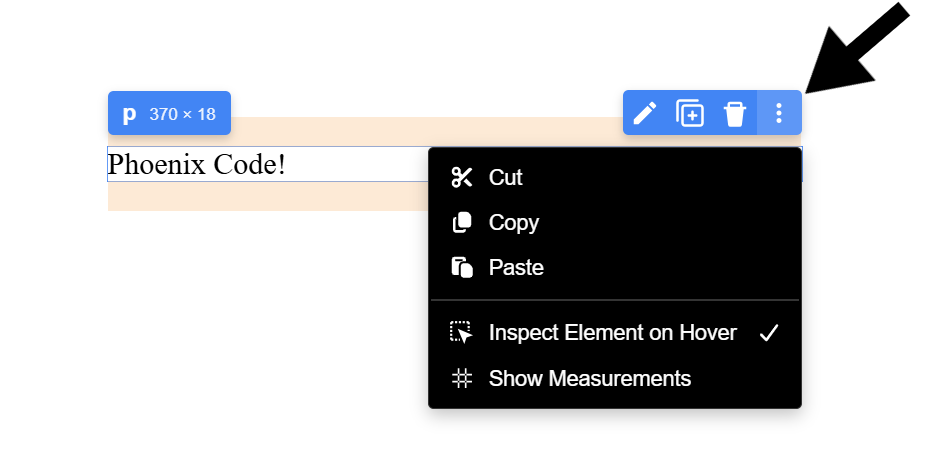
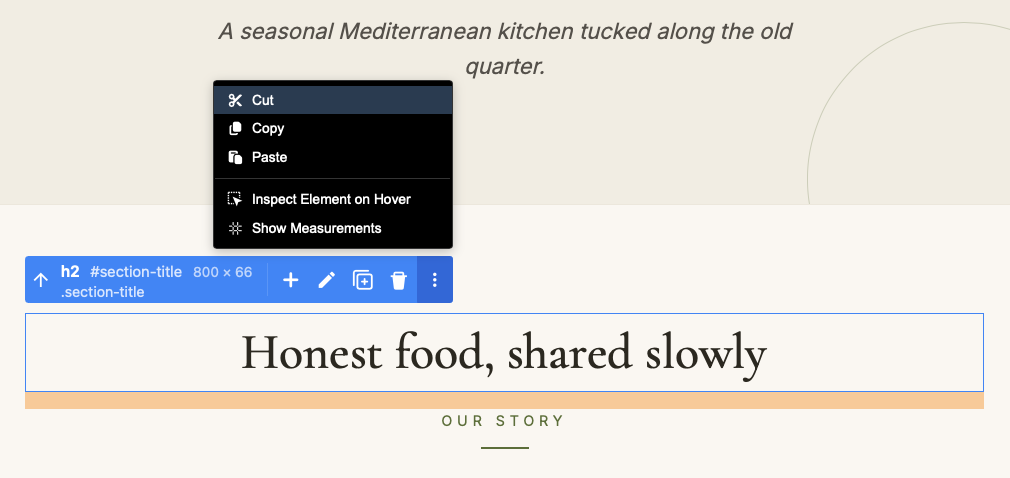
feat: add videos for live preview edit mode docs

diff --git a/docs/07-Pro Features/02-edit-mode-live-preview.md b/docs/07-Pro Features/02-edit-mode-live-preview.md
@@ -160,6 +160,10 @@ To start editing, **double-click** an element in the Live Preview or click the *
 Edit the text as needed, then press `Enter` to save or `Esc` to cancel.  
 To insert a line break, press `Shift + Enter`.
 
+<VideoPlayer
+  src="https://docs-images.phcode.dev/videos/live-preview-edit/inline-text-editing.mp4"
+/>
+
 > Text editing is available only for elements that can contain text. It is not supported for elements such as `<img>`, `<video>`, `<br>`, and similar non-text elements.
 
 ### Formatting Toolbar
@@ -185,15 +189,15 @@ Click the **More** button *(three-dots icon)* on the right side of the toolbar t
 
 ![More formatting options](./images/formatting-more.png "More formatting options")
 
-<VideoPlayer
-  src="https://docs-images.phcode.dev/videos/live-preview-edit/inline-text-editing.mp4"
-/>
-
 ## Drag and Drop
 
 The **Drag and Drop** feature lets you reposition elements in the Live Preview by dragging them to a new location. The source code is automatically updated with the new structure when you drop the element.
 
 To drag an element: click and hold the element, then move your mouse to the desired location. The element becomes semi-transparent while dragging. As you hover over potential drop targets, Phoenix Code displays visual indicators showing where the element will be placed.
+
+<VideoPlayer
+  src="https://docs-images.phcode.dev/videos/live-preview-edit/drag-drop.mp4"
+/>
 
 #### Visual Indicators
 - **Arrow markers** to indicate the drop position:
@@ -211,21 +215,19 @@ To cancel a drag, press `Esc`.
 
 > When you drag an element near the top or bottom edge of the viewport, the Live Preview automatically scrolls in that direction.
 
-<VideoPlayer
-  src="https://docs-images.phcode.dev/videos/live-preview-edit/drag-drop.mp4"
-/>
-
 ## Edit Hyperlink
 
 The **Edit Hyperlink** feature lets you modify the URL and behavior of anchor (`<a>`) elements directly in the Live Preview.
+
+<VideoPlayer
+  src="https://docs-images.phcode.dev/videos/live-preview-edit/edit-hyperlink.mp4"
+/>
 
 To edit a hyperlink, select an `<a>` element and click the **Edit Hyperlink** button *(chain icon)* in the [Control Box](#control-box). A panel appears near the element with the following options:
 
 - **URL input**: Edit the link's destination (`href` attribute). Press `Enter` to save your changes or `Esc` to cancel.
 - **Opens in new tab**: Toggle this option to make the link open in a new tab. This adds `target="_blank"` in your source code.
 - **Open this link**: Opens the URL in your default browser. This option is available only in desktop apps.
-
-<!-- Add an image here showing the Edit Hyperlink panel with URL input, new tab toggle, and open link button -->
 
 ## Cut, Copy, and Paste
 